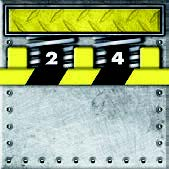
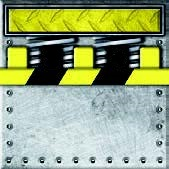
Made chances but pushPanel still wrong

Changed region(s): [[0.2663, 0.2959, 0.355, 0.3846], [0.6509, 0.2959, 0.7396, 0.3846], [0.7396, 0.4734, 0.7692, 0.503]]

diff --git a/src/main/java/dk/dtu/compute/se/pisd/roborally/view/elements/PushPanelView.java b/src/main/java/dk/dtu/compute/se/pisd/roborally/view/elements/PushPanelView.java
@@ -4,6 +4,10 @@ import com.google.common.io.Resources;
 import dk.dtu.compute.se.pisd.roborally.model.elements.Laser;
 import dk.dtu.compute.se.pisd.roborally.model.elements.PushPanel;
 import javafx.scene.image.Image;
+import javafx.scene.paint.Color;
+import javafx.scene.text.Font;
+import javafx.scene.text.FontWeight;
+import javafx.scene.text.Text;
 import org.jetbrains.annotations.NotNull;
 
 import java.io.IOException;
@@ -33,22 +37,32 @@ public class PushPanelView extends ElementView {
     public PushPanelView(@NotNull PushPanel pushPanel) {
         super(image, "top");
         this.pushPanel = pushPanel;
-        super.getImageView().fitHeightProperty().unbind();
+
+        //TODO chance text so it fits pushPanel
+        Text text = new Text(Integer.toString(this.pushPanel.getRegister1()));
+        text.setLayoutY(27);
+        text.setLayoutX(28);
+        text.setFont(Font.font("Verdana", FontWeight.EXTRA_BOLD, 13));
+        text.setFill(Color.YELLOW);
+        super.getChildren().add(text);
+
+        text = new Text(Integer.toString(this.pushPanel.getRegister2()));
+        text.setLayoutY(27);
+        text.setLayoutX(38);
+        text.setFont(Font.font("Verdana", FontWeight.EXTRA_BOLD, 13));
+        text.setFill(Color.YELLOW);
+        super.getChildren().add(text);
 
         switch (pushPanel.getDirection()) {
             case NORTH:
-                super.getImageView().fitWidthProperty().bind(this.widthProperty());
                 break;
             case SOUTH:
-                super.getImageView().fitWidthProperty().bind(this.widthProperty());
                 this.setRotate(180);
                 break;
             case EAST:
-                super.getImageView().fitWidthProperty().bind(this.heightProperty());
                 this.setRotate(90);
                 break;
             case WEST:
-                super.getImageView().fitWidthProperty().bind(this.heightProperty());
                 this.setRotate(-90);
                 break;
         }

diff --git a/src/main/java/dk/dtu/compute/se/pisd/roborally/fileaccess/LoadBoard.java b/src/main/java/dk/dtu/compute/se/pisd/roborally/fileaccess/LoadBoard.java
@@ -114,10 +114,6 @@ public class LoadBoard {
                         case "priority_antenna":
                             new PriorityAntenna(space);
                             break;
-                        case "push_panel":
-                            JSONObject pushPanel = elementJSON.getJSONObject("registers");
-                            new PushPanel(gameController, space, Heading.valueOf(elementJSON.getString("direction")), pushPanel.getInt("register1"), pushPanel.getInt("register2"));
-                            break;
                         case "reboot_token":
                             JSONObject rebootBounds = elementJSON.getJSONObject("bounds");
                             new RebootToken(space, Heading.valueOf(elementJSON.getString("direction")), rebootBounds.getInt("x1"), rebootBounds.getInt("y1"), rebootBounds.getInt("x2"), rebootBounds.getInt("y2"));
@@ -127,6 +123,11 @@ public class LoadBoard {
                             break;
                         case "wall":
                             new Wall(space, Heading.valueOf(elementJSON.getString("direction")));
+                            break;
+                        case "push_panel":
+                            new Wall(space, Heading.valueOf(elementJSON.getString("direction")));
+                            JSONObject pushPanel = elementJSON.getJSONObject("registers");
+                            new PushPanel(gameController, space, Heading.valueOf(elementJSON.getString("direction")), pushPanel.getInt("register1"), pushPanel.getInt("register2"));
                             break;
                     }
                 }

diff --git a/src/main/java/dk/dtu/compute/se/pisd/roborally/model/elements/PushPanel.java b/src/main/java/dk/dtu/compute/se/pisd/roborally/model/elements/PushPanel.java
@@ -30,7 +30,7 @@ public class PushPanel extends ActionElement {
         this.direction = direction;
         this.register1 = register1;
         this.register2 = register2;
-        Wall wallOn = new Wall(space, direction.next().next());
+
 
     }
 
